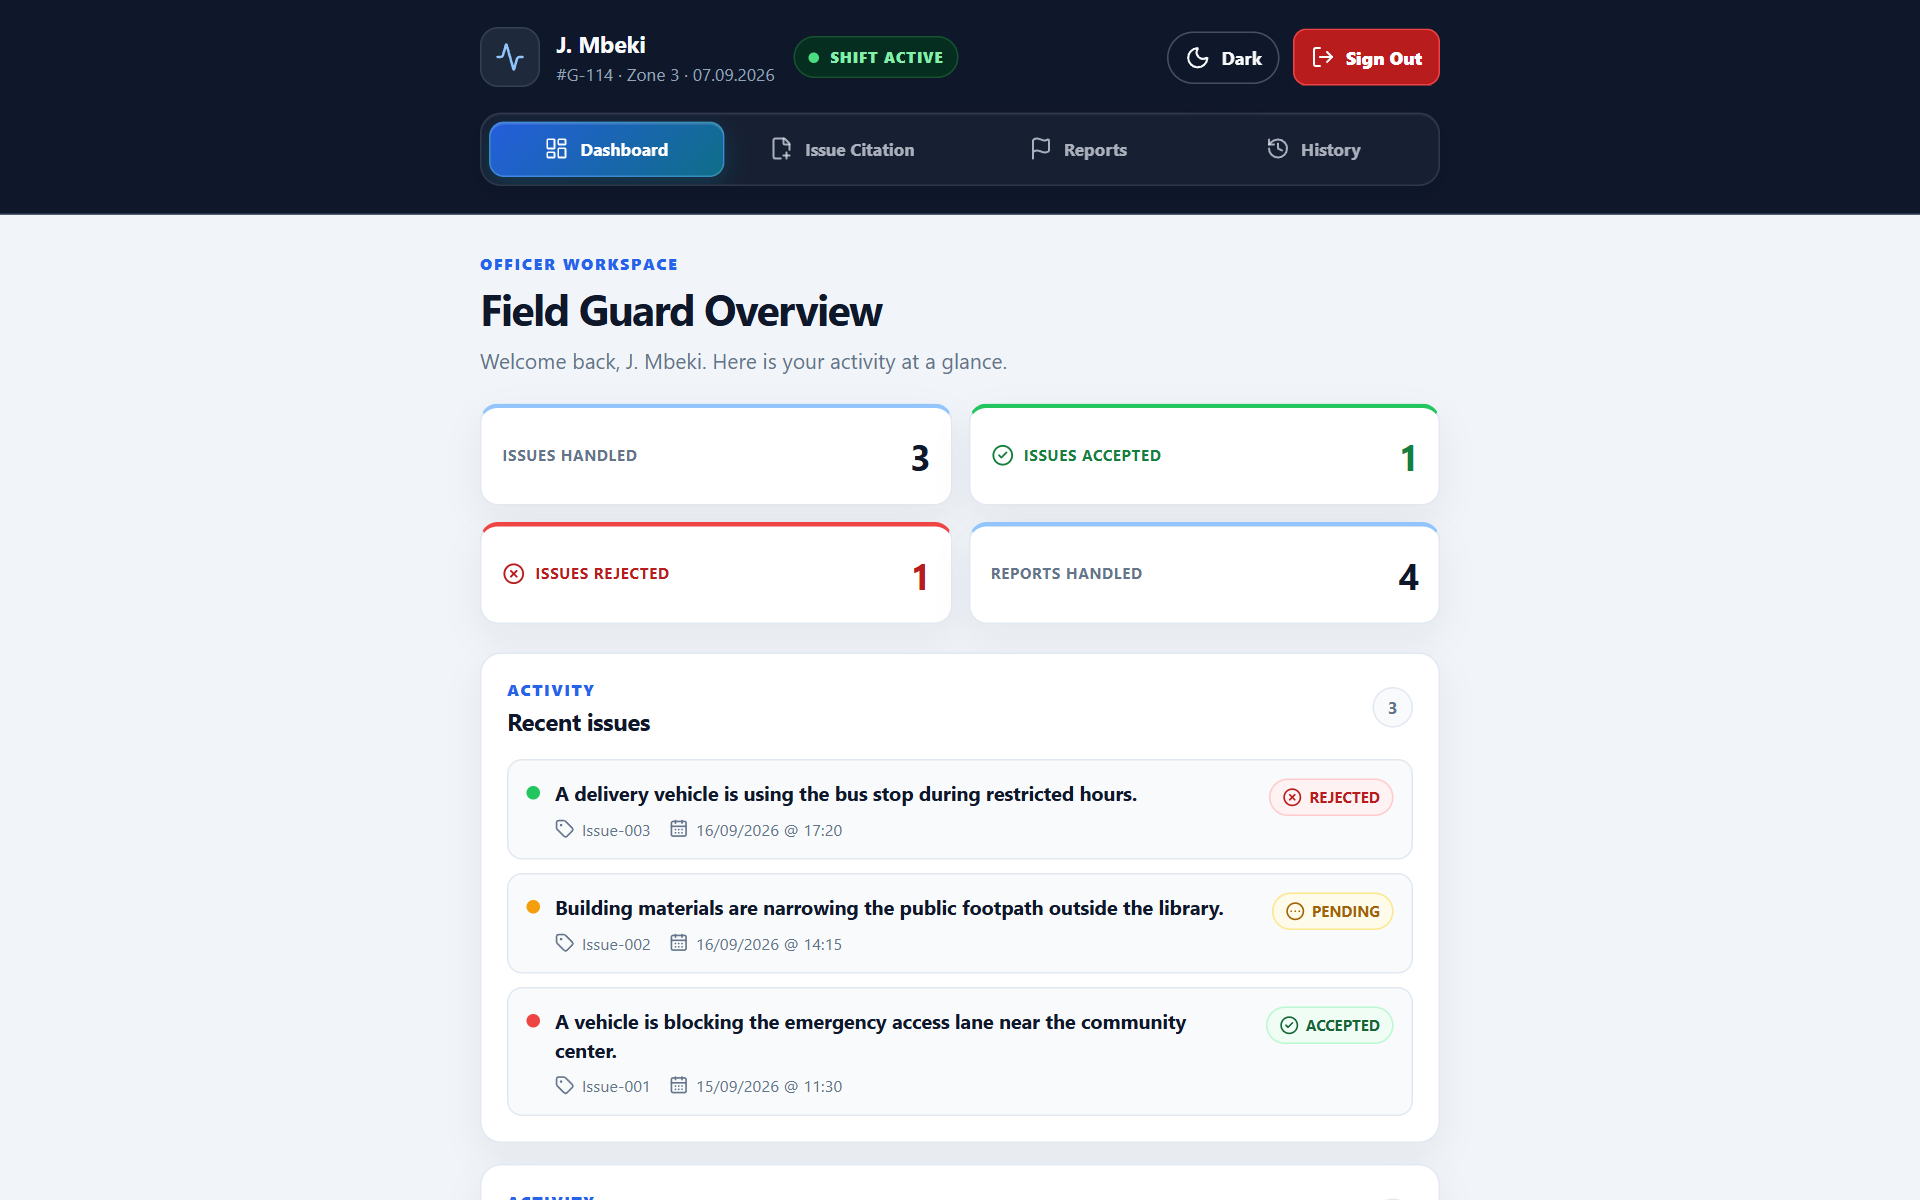
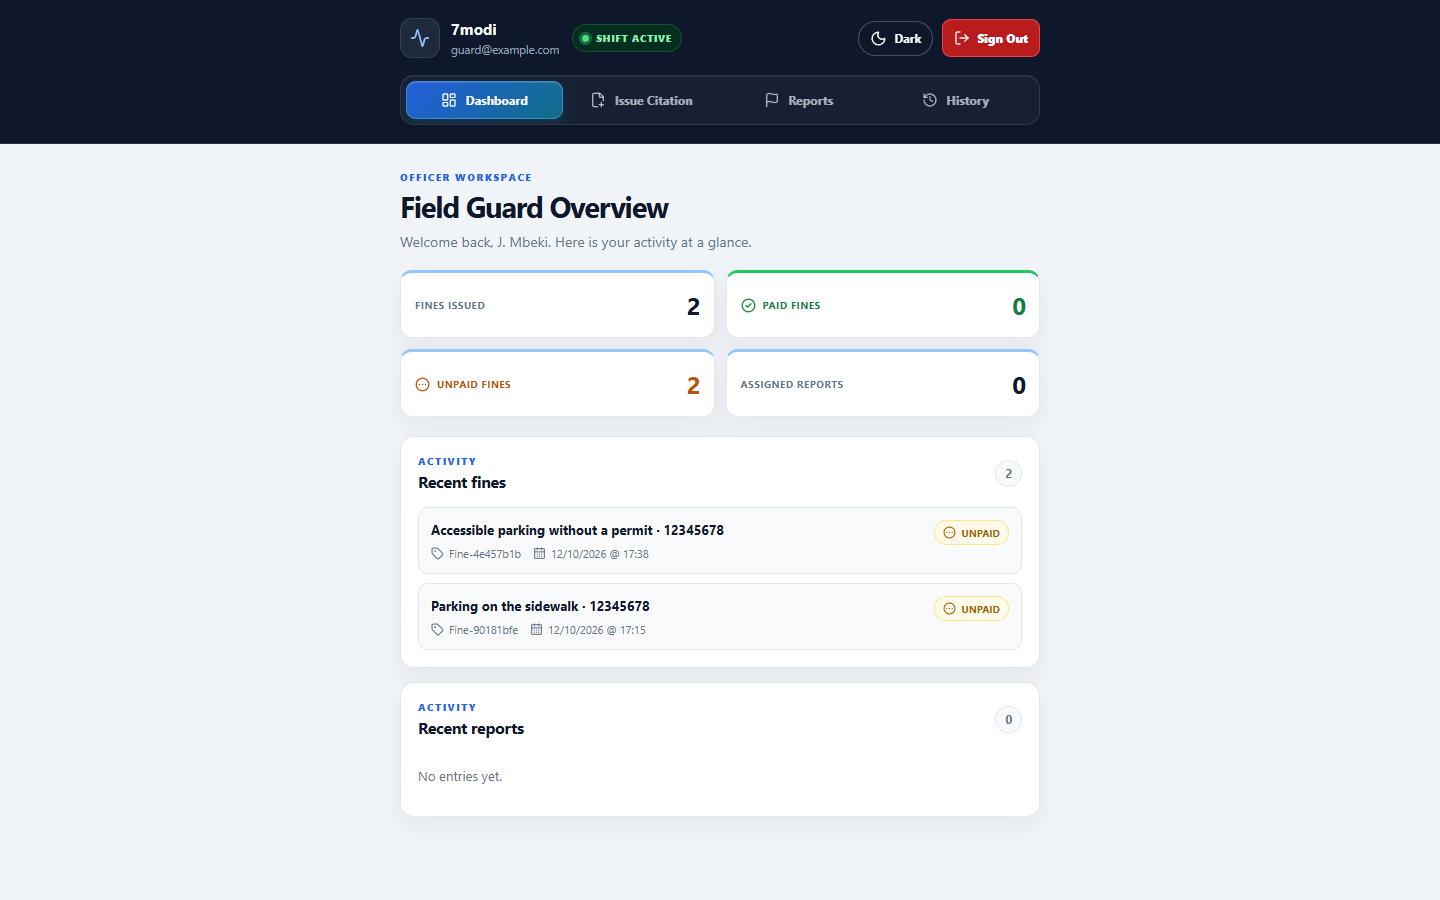
Update README and refresh screenshots Document registration, backend setup and current portals

diff --git a/README.md b/README.md
@@ -2,76 +2,127 @@
 
 **One platform for residents, municipal staff and field guards.**
 
-CivicHub is a municipal services web app themed around Tel Aviv-Yafo. Residents pay bills, report problems and appeal fines; staff review disputes and dispatch maintenance; field guards issue citations from the street. It is fully responsive, from desktop down to a phone.
+CivicHub is a full-stack municipal services app themed around Tel Aviv-Yafo. Residents register, pay bills, report problems and appeal fines. Staff review disputes, manage billing and dispatch maintenance. Field guards issue parking citations from the street. The React front end talks to the Express and MongoDB API in [`Backend/`](Backend/README.md).
 
 ![Login](src/assets/screenshots/login-desktop.png)
 
 ## Portals and features
 
+### Authentication
+- Resident self-registration with a password strength meter and live confirm-password check
+- Secure login with a "keep me logged in" option (JWT in an HTTP-only cookie)
+- Role-based routing and protected pages for `RESIDENT`, `STAFF` and `FIELD_GUARD`
+
 ### Resident portal
-- Dashboard with account status, balance, active fines, open requests, utility usage chart and citations
-- Property overview
-- My services: report a problem, view fines and citations, file appeals
-- Billing: invoices, PDF receipts and a payment checkout
+- Dashboard with account status, balance due, active fines, open requests and a water and electricity usage chart
+- Billing: monthly records, PDF receipts and a payment checkout (the checkout is a demo and does not charge anything)
+- My services: report a problem with a photo and track its status, view fines and citations, and file appeals with photo evidence
+- Properties overview
 
 ### Staff portal
-- Citation disputes: review, approve or reject appeals
-- Billing ledger across all accounts
-- Resident requests inbox: review, assign or reject
-- Maintenance dispatch: kanban board (Unassigned / Dispatched / In Progress / Completed), assign teams, create tickets
+- Citation disputes: search, status filters with counts, pending-first sorting, and two-click Accept or Reject
+- Billing ledger across all resident accounts and fines
+- Resident requests inbox: review, assign to a field guard or reject with a reason
+- Maintenance dispatch board: Dispatched, In Progress, Completed and Rejected columns
+- Live overview stats and notification bell
 
 ### Field Guard portal
-- Overview of the shift and assigned reports
-- Issue parking citations with automatic fine calculation
+- Overview of issued and unpaid fines and assigned reports
+- Issue parking citations: license plate lookup finds the vehicle owner, and the fine amount comes from the violation type
 - Reports filtered by status and priority
 - Issue history
 
 ### Everywhere
 - Light and dark theme
-- Notification bell (Novu)
-- Mobile-first layout: hamburger drawer, sticky headers, stacked card tables, two-up stat tiles, and a tabbed maintenance board on small screens
+- Notifications (Novu)
+- Toast feedback for actions
+- Shekel (₪) amounts and Israeli date formats
+- Responsive layout with a slide-in navigation drawer on mobile
 
 ## Screenshots
 
-### Desktop
+### Sign in and register
 
-| Resident dashboard | Resident billing |
+| Login | Register |
+| :---: | :---: |
+| ![Login](src/assets/screenshots/login-desktop.png) | ![Register](src/assets/screenshots/register-desktop.png) |
+
+### Resident
+
+| Dashboard | Billing |
 | :---: | :---: |
 | ![Resident dashboard](src/assets/screenshots/resident-dashboard-desktop.png) | ![Resident billing](src/assets/screenshots/resident-billing-desktop.png) |
 
-| Staff: citation disputes | Staff: maintenance dispatch |
-| :---: | :---: |
-| ![Citation disputes](src/assets/screenshots/staff-citation-disputes-desktop.png) | ![Maintenance dispatch](src/assets/screenshots/staff-maintenance-desktop.png) |
+![My services](src/assets/screenshots/resident-services-desktop.png)
 
-![Field Guard overview](src/assets/screenshots/field-guard-overview-desktop.png)
+### Staff
+
+| Citation disputes | Billing ledger |
+| :---: | :---: |
+| ![Citation disputes](src/assets/screenshots/staff-citation-disputes-desktop.png) | ![Billing ledger](src/assets/screenshots/staff-billing-ledger-desktop.png) |
+
+| Resident requests | Maintenance dispatch |
+| :---: | :---: |
+| ![Resident requests](src/assets/screenshots/staff-requests-desktop.png) | ![Maintenance dispatch](src/assets/screenshots/staff-maintenance-desktop.png) |
+
+### Field Guard
+
+| Overview | Issue citation |
+| :---: | :---: |
+| ![Field Guard overview](src/assets/screenshots/field-guard-overview-desktop.png) | ![Issue citation](src/assets/screenshots/field-guard-citation-desktop.png) |
+
+![Field Guard reports](src/assets/screenshots/field-guard-reports-desktop.png)
 
 ### Mobile
 
-| Resident dashboard | Navigation drawer | Billing | Maintenance dispatch | Field Guard |
-| :---: | :---: | :---: | :---: | :---: |
-| <img src="src/assets/screenshots/resident-dashboard-mobile.png" width="160" /> | <img src="src/assets/screenshots/mobile-drawer.png" width="160" /> | <img src="src/assets/screenshots/resident-billing-mobile.png" width="160" /> | <img src="src/assets/screenshots/staff-maintenance-mobile.png" width="160" /> | <img src="src/assets/screenshots/field-guard-overview-mobile.png" width="160" /> |
+| Resident dashboard | Billing | Staff navigation drawer | Field Guard |
+| :---: | :---: | :---: | :---: |
+| <img src="src/assets/screenshots/resident-dashboard-mobile.png" width="180" /> | <img src="src/assets/screenshots/resident-billing-mobile.png" width="180" /> | <img src="src/assets/screenshots/mobile-drawer.png" width="180" /> | <img src="src/assets/screenshots/field-guard-overview-mobile.png" width="180" /> |
 
 ## Tech stack
 
+**Front end**
 - [React 19](https://react.dev) + [TypeScript](https://www.typescriptlang.org)
 - [Vite](https://vite.dev) and [React Router 7](https://reactrouter.com)
 - [Recharts](https://recharts.org) for charts
 - [lucide-react](https://lucide.dev) for icons
+- [Sonner](https://sonner.emilkowal.ski) for toasts
 - [jsPDF](https://github.com/parallax/jsPDF) + autotable for PDF receipts
-- [React-Toastify](https://fkhadra.github.io/react-toastify/) for toasts
 - [Novu](https://novu.co) for in-app notifications
 - ESLint for linting
 
+**Back end** (see [Backend/README.md](Backend/README.md))
+- Node.js, Express 5, MongoDB and Mongoose
+- JWT authentication with bcrypt-hashed passwords
+- Multer and Cloudinary for photo uploads
+
 ## Getting started
 
-Requires Node.js 20+.
+Requires Node.js 20+ and a MongoDB database that supports transactions (for example MongoDB Atlas).
+
+### 1. Start the API
+
+```bash
+cd Backend
+npm install
+```
+
+Create `Backend/.env` (all variables are listed in [Backend/README.md](Backend/README.md)) and set `PORT=4000`, because the front end calls `http://localhost:4000`. Then:
+
+```bash
+npm run dev
+```
+
+### 2. Start the front end
+
+From the repository root:
 
 ```bash
 npm install
 npm run dev
 ```
 
-Open the URL Vite prints (usually http://localhost:5173).
+Open http://localhost:5173. The API only allows the origins `localhost:5173`, `5174` and `5175`, so keep Vite on one of those ports.
 
 | Script | Purpose |
 | --- | --- |
@@ -80,11 +131,14 @@ Open the URL Vite prints (usually http://localhost:5173).
 | `npm run preview` | Preview the production build |
 | `npm run lint` | Run ESLint |
 
-### Demo access
+### Accounts
 
-The login page offers one-click demo accounts for each portal (Resident, Municipality Staff and Field Guard). Portal data is static demo data, so no backend is needed to explore the UI. Real sign-in calls an auth API at `http://localhost:4000`, which is not part of this repository.
+- **Resident:** register from the login page ("Create an account").
+- **Staff and Field Guard:** new accounts are always created as `RESIDENT`. Change the `role` field of the user in MongoDB to `STAFF` or `FIELD_GUARD`.
 
-To enable notifications, set `VITE_NOVU_APPLICATION_IDENTIFIER` in a `.env` file.
+### Optional configuration
+
+To enable the notification bell, set `VITE_NOVU_APPLICATION_IDENTIFIER` in a `.env` file at the repository root.
 
 ## Project structure
 
@@ -93,11 +147,18 @@ src/
 ├── assets/         Backgrounds and README screenshots
 ├── components/     Resident, Staff, Field Guard, Login and shared components
 ├── contexts/       Theme, user and citation state
-├── data/           Demo accounts and static portal data
+├── data/           Types and shared data
 ├── helpers/        Formatting, PDF and field guard helpers
 ├── layouts/        Staff and Field Guard layouts
-├── pages/          Route-level pages
+├── pages/          Route-level pages (login, register, resident, staff, field guard)
 └── styles/         CSS, including the shared mobile system
+Backend/
+├── config/         Database, Cloudinary, Novu and fine configuration
+├── controllers/    Request handlers
+├── middleware/     Authentication, roles and uploads
+├── models/         Mongoose models
+├── routes/         Express routes
+└── services/       Notifications
 ```
 
 ## Team
